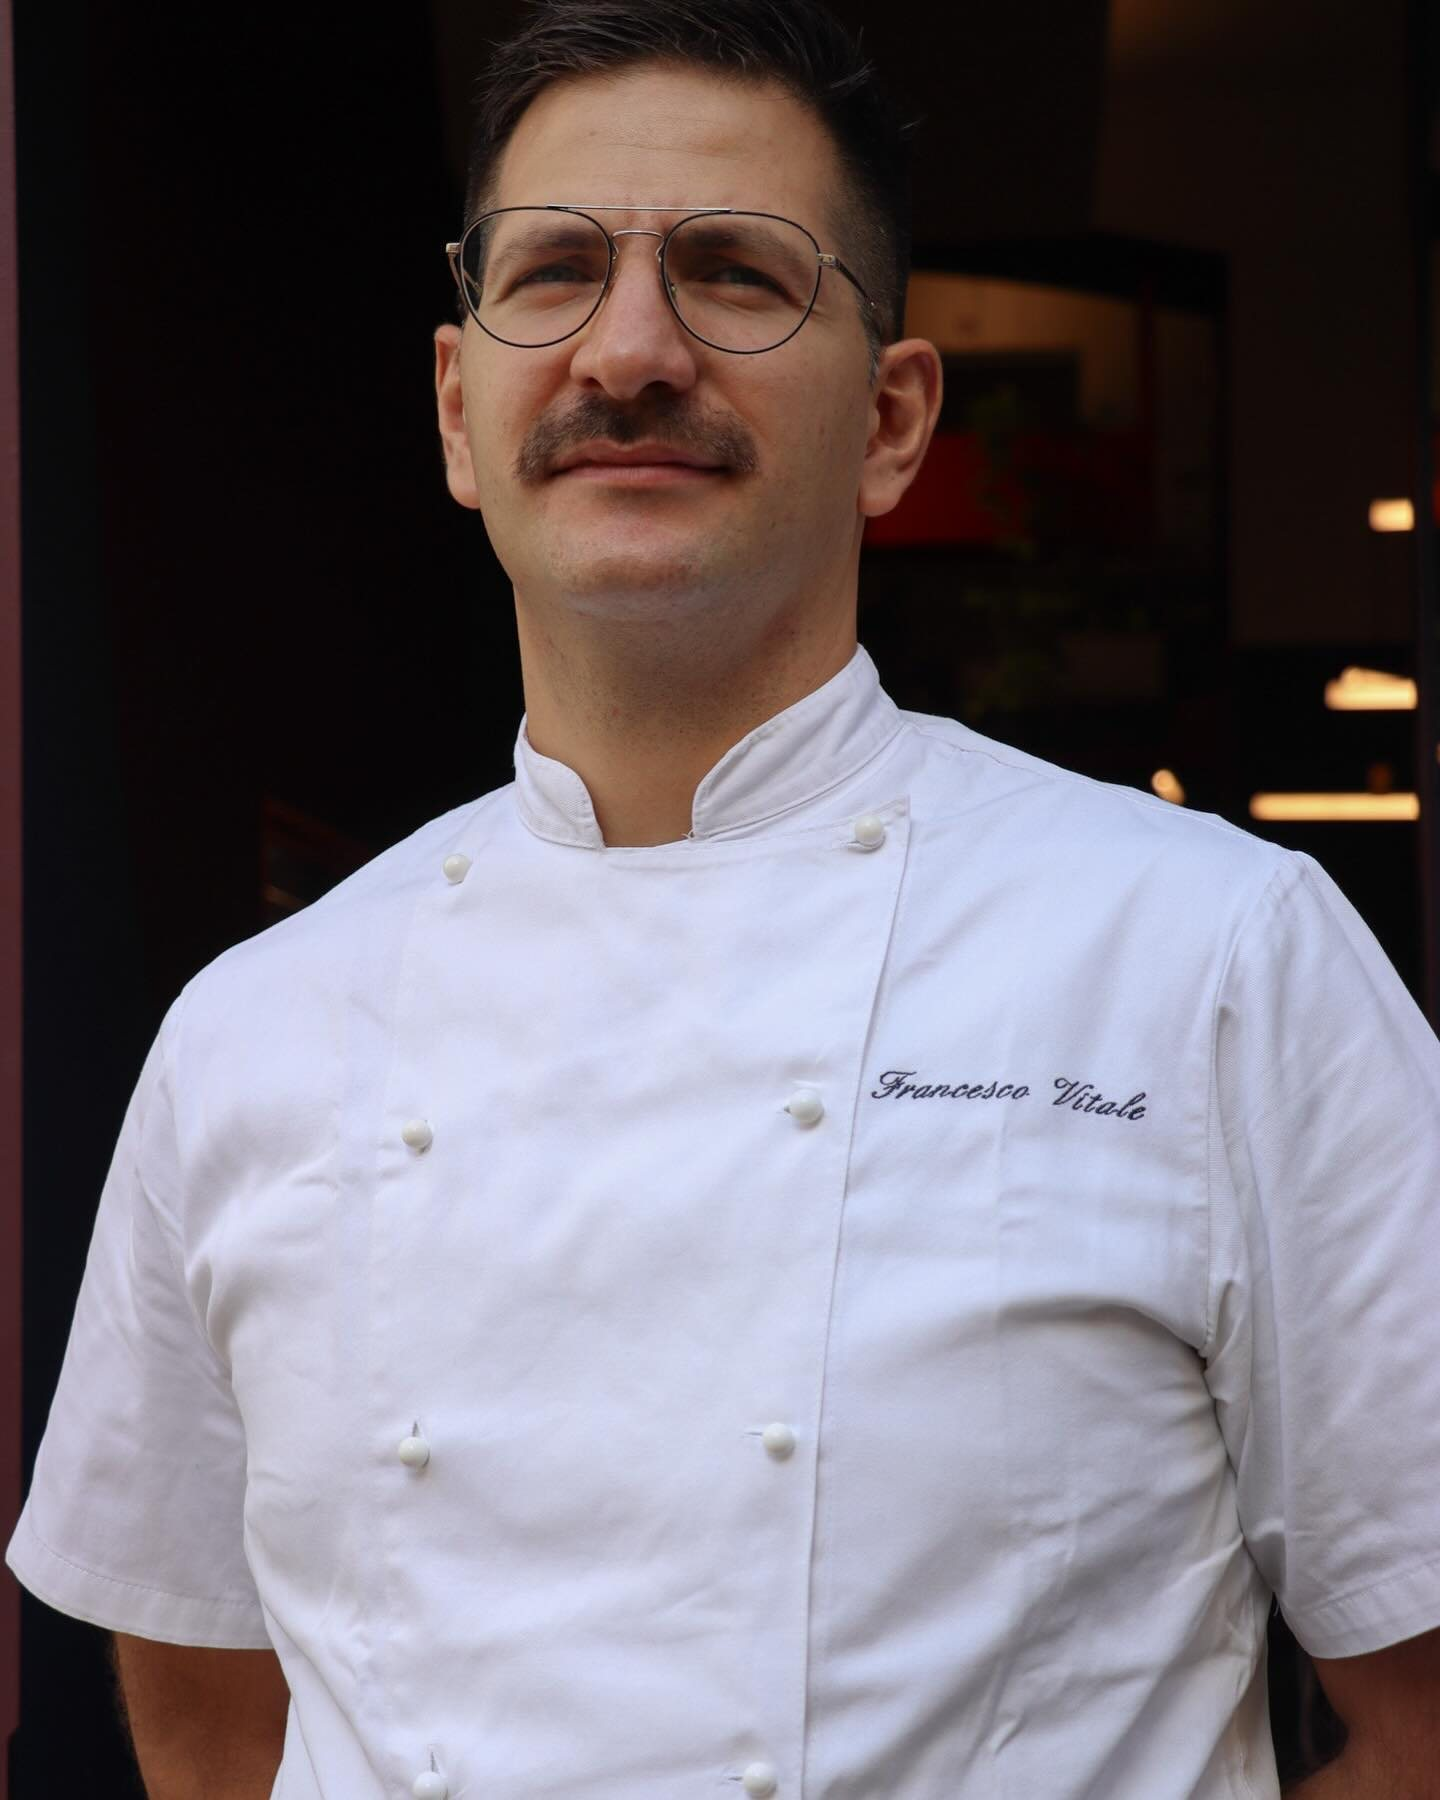
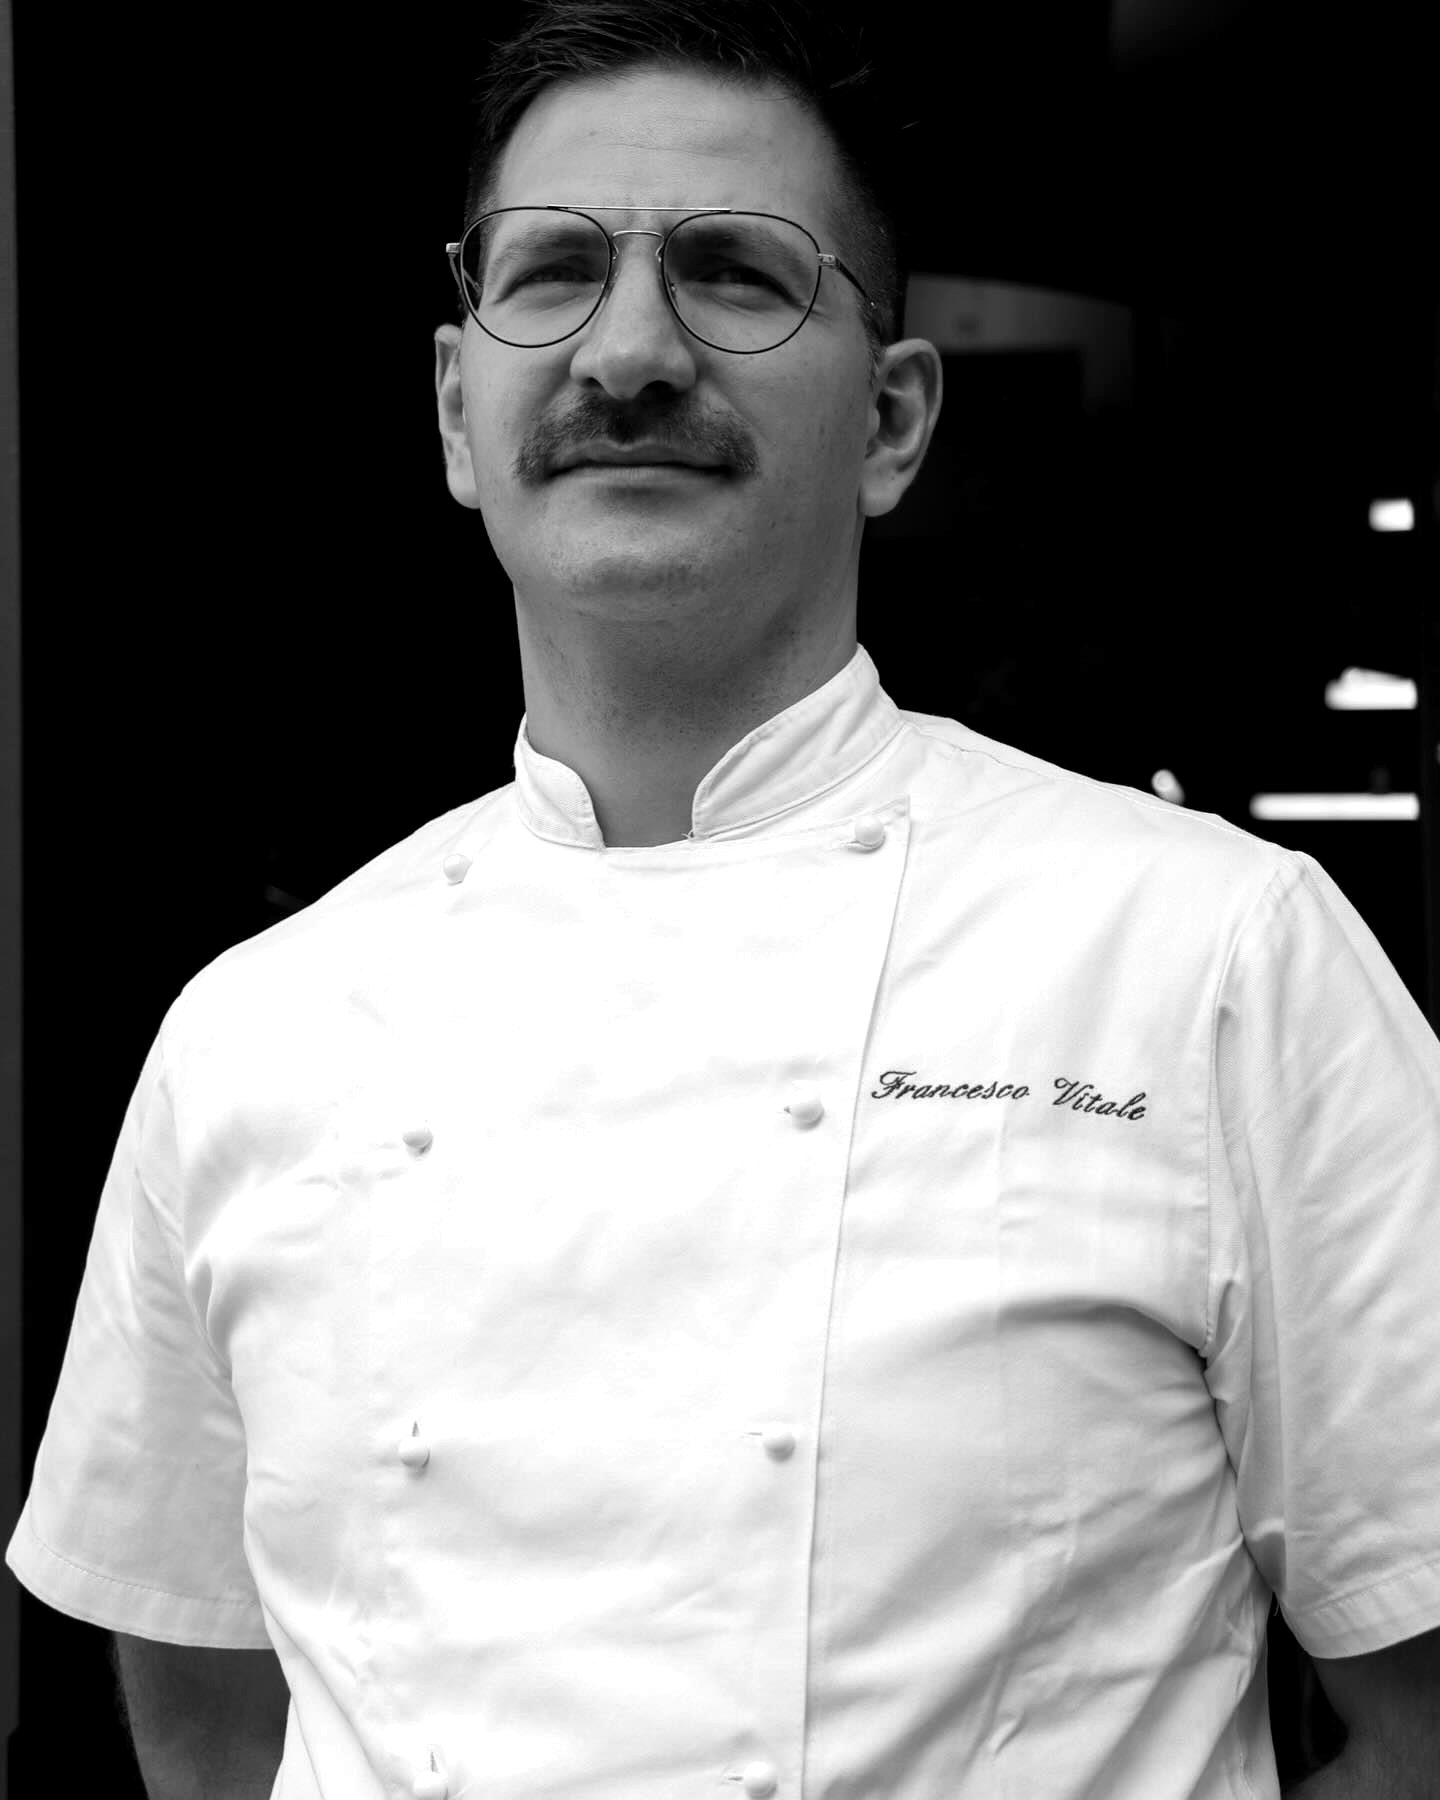
Foto dello chef Francesco Vitale in bianco e nero
Claude-Session: https://claude.ai/code/session_01Ti2AyGVW9BgVRXnBCAT8xM

diff --git a/cucina.html b/cucina.html
@@ -11,7 +11,7 @@
   <link rel="preconnect" href="https://fonts.googleapis.com">
   <link rel="preconnect" href="https://fonts.gstatic.com" crossorigin>
   <link href="https://fonts.googleapis.com/css2?family=Instrument+Serif:ital@0;1&family=Manrope:wght@400;500;600&family=Patrick+Hand+SC&display=swap" rel="stylesheet">
-  <link rel="stylesheet" href="assets/css/style.css?v=53">
+  <link rel="stylesheet" href="assets/css/style.css?v=54">
 </head>
 <body class="page-cucina theme-cucina">
   <a class="skip-link" href="#main" data-i18n="skip">Vai al contenuto</a>
@@ -114,7 +114,7 @@
         <div class="chef__portrait img-reveal">
           <picture>
             <source srcset="assets/img/chef-vitale.webp" type="image/webp">
-            <img src="assets/img/chef-vitale.jpg" alt="Ritratto dello chef Francesco Vitale in giacca da cuoco" loading="lazy" width="1440" height="1800">
+            <img src="assets/img/chef-vitale.jpg" alt="Ritratto in bianco e nero dello chef Francesco Vitale in giacca da cuoco" loading="lazy" width="1440" height="1800">
           </picture>
         </div>
         <div class="reveal" data-delay="1">
@@ -170,6 +170,6 @@
     </div>
   </footer>
 
-  <script src="assets/js/main.js?v=53"></script>
+  <script src="assets/js/main.js?v=54"></script>
 </body>
 </html>

diff --git a/menu.html b/menu.html
@@ -11,7 +11,7 @@
   <link rel="preconnect" href="https://fonts.googleapis.com">
   <link rel="preconnect" href="https://fonts.gstatic.com" crossorigin>
   <link href="https://fonts.googleapis.com/css2?family=Instrument+Serif:ital@0;1&family=Manrope:wght@400;500;600&family=Patrick+Hand+SC&display=swap" rel="stylesheet">
-  <link rel="stylesheet" href="assets/css/style.css?v=53">
+  <link rel="stylesheet" href="assets/css/style.css?v=54">
 </head>
 <body class="page-menu">
   <a class="skip-link" href="#main" data-i18n="skip">Vai al contenuto</a>
@@ -129,7 +129,7 @@
     </div>
   </footer>
 
-  <script src="assets/js/menu-data.js?v=53"></script>
-  <script src="assets/js/main.js?v=53"></script>
+  <script src="assets/js/menu-data.js?v=54"></script>
+  <script src="assets/js/main.js?v=54"></script>
 </body>
 </html>

diff --git a/grazie.html b/grazie.html
@@ -9,7 +9,7 @@
   <link rel="preconnect" href="https://fonts.googleapis.com">
   <link rel="preconnect" href="https://fonts.gstatic.com" crossorigin>
   <link href="https://fonts.googleapis.com/css2?family=Instrument+Serif:ital@0;1&family=Manrope:wght@400;500;600&family=Patrick+Hand+SC&display=swap" rel="stylesheet">
-  <link rel="stylesheet" href="assets/css/style.css?v=53">
+  <link rel="stylesheet" href="assets/css/style.css?v=54">
 </head>
 <body class="page-catering">
   <main class="section bg-navy on-dark booking" style="min-height:100svh;display:grid;place-items:center">
@@ -23,6 +23,6 @@
       </div>
     </div>
   </main>
-  <script src="assets/js/main.js?v=53"></script>
+  <script src="assets/js/main.js?v=54"></script>
 </body>
 </html>

diff --git a/catering.html b/catering.html
@@ -11,7 +11,7 @@
   <link rel="preconnect" href="https://fonts.googleapis.com">
   <link rel="preconnect" href="https://fonts.gstatic.com" crossorigin>
   <link href="https://fonts.googleapis.com/css2?family=Instrument+Serif:ital@0;1&family=Manrope:wght@400;500;600&family=Patrick+Hand+SC&display=swap" rel="stylesheet">
-  <link rel="stylesheet" href="assets/css/style.css?v=53">
+  <link rel="stylesheet" href="assets/css/style.css?v=54">
 </head>
 <body class="page-catering theme-night">
   <a class="skip-link" href="#main" data-i18n="skip">Vai al contenuto</a>
@@ -236,6 +236,6 @@
     </div>
   </footer>
 
-  <script src="assets/js/main.js?v=53"></script>
+  <script src="assets/js/main.js?v=54"></script>
 </body>
 </html>

diff --git a/moysa.html b/moysa.html
@@ -11,7 +11,7 @@
   <link rel="preconnect" href="https://fonts.googleapis.com">
   <link rel="preconnect" href="https://fonts.gstatic.com" crossorigin>
   <link href="https://fonts.googleapis.com/css2?family=Instrument+Serif:ital@0;1&family=Manrope:wght@400;500;600&family=Patrick+Hand+SC&display=swap" rel="stylesheet">
-  <link rel="stylesheet" href="assets/css/style.css?v=53">
+  <link rel="stylesheet" href="assets/css/style.css?v=54">
 </head>
 <body class="page-moysa">
   <a class="skip-link" href="#main" data-i18n="skip">Vai al contenuto</a>
@@ -127,6 +127,6 @@
     </div>
   </footer>
 
-  <script src="assets/js/main.js?v=53"></script>
+  <script src="assets/js/main.js?v=54"></script>
 </body>
 </html>

diff --git a/index.html b/index.html
@@ -19,7 +19,7 @@
   <link rel="preconnect" href="https://fonts.googleapis.com">
   <link rel="preconnect" href="https://fonts.gstatic.com" crossorigin>
   <link href="https://fonts.googleapis.com/css2?family=Instrument+Serif:ital@0;1&family=Manrope:wght@400;500;600&family=Patrick+Hand+SC&display=swap" rel="stylesheet">
-  <link rel="stylesheet" href="assets/css/style.css?v=53">
+  <link rel="stylesheet" href="assets/css/style.css?v=54">
 
   <script type="application/ld+json">
   {
@@ -329,6 +329,6 @@
     </div>
   </footer>
 
-  <script src="assets/js/main.js?v=53"></script>
+  <script src="assets/js/main.js?v=54"></script>
 </body>
 </html>
